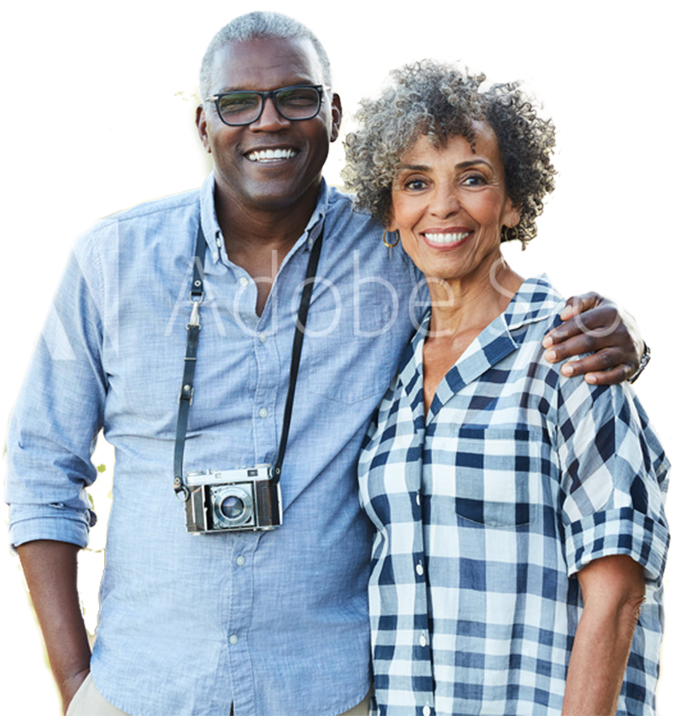
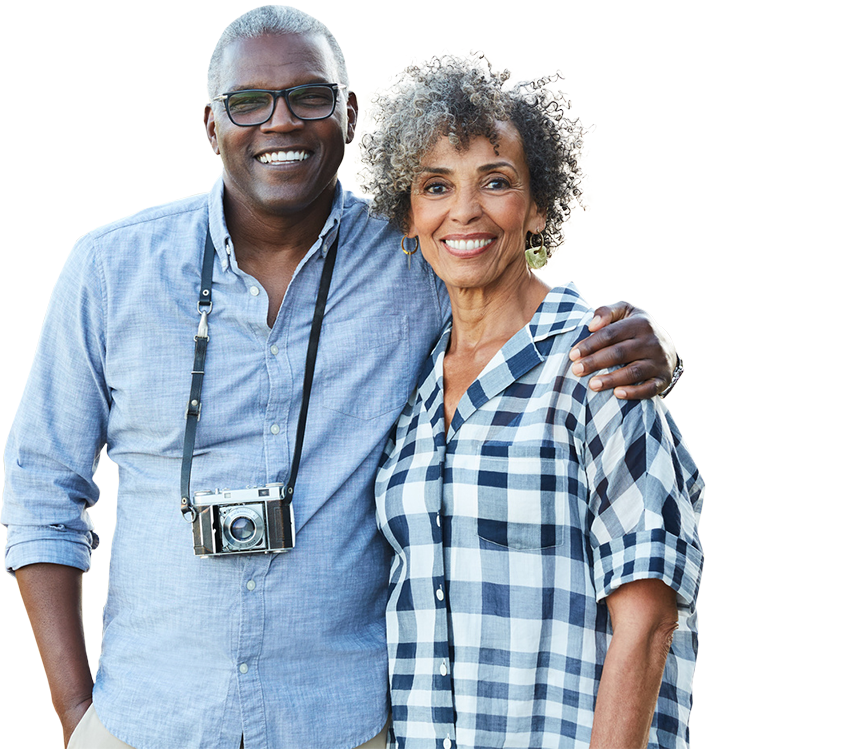
QA Fixes | Smarter Living Parent -- Hero Header Module (#160)
* Changed assets to match zeplin on Smarter Living hero

* Made changes to video module on Smarter products header

* Finished implementing feedback for Smarter Living Header

* Fixed issue where header was breaking the page and causing scroll

diff --git a/assets/styles/component-styles/hero-header.scss b/assets/styles/component-styles/hero-header.scss
@@ -189,10 +189,16 @@
   @media #{$tablet-only} {
     margin-bottom: 23.18vw;
   }
-
+  @media #{$tablet-lnd-only} {
+    padding-top: 30px;
+  }
   @media #{$portrait} {
-    padding: 100px 0 0;
+    padding: 50px 0 0;
     margin-bottom: 28.125vw;
+    background-position: center -270px;
+  }
+  @media #{$phone-only} {
+    background-position: center -120px;
   }
 
   .zuc-hero-row {
@@ -223,19 +229,28 @@
 
   .zuc-hero-left {
     width: 40%;
-    padding: 0 2.2vw;
+    padding: 0 4.2vw;
     position: relative;
 
+    @media #{$laptop-only} {
+      padding: 0 2.2vw;
+    }
+    @media #{$tablet-lnd-only} {
+      width: 60%;
+    }
     @media #{$portrait} {
       width: 100%;
-      padding: 5vw;
-      text-align: center;
+      padding: 7vw;
 
       h5,
       p {
         text-align: left;
       }
     }
+  }
+
+  .zuc-btn {
+    margin-top: 3.12vw;
   }
 
   img {
@@ -249,7 +264,18 @@
   .--img-position {
     position: relative;
     bottom: -5vw;
+    right: -5vw;
     z-index: -1;
+
+    @media #{$tablet-lnd-only} {
+      right: 0;
+    }
+    @media #{$portrait} {
+      display: block;
+      bottom: -9vw;
+      width: 80%;
+      margin: 0 auto;
+    }
   }
 
   .zuc-secondary-link {
@@ -303,6 +329,7 @@
   margin-top: 3.125vw;
   z-index: 2;
   position: relative;
+  margin-bottom: 2vw;
 
   @media #{$portrait} {
     margin-top: 0;
@@ -320,7 +347,7 @@
 
     @media #{$portrait} {
       width: 100%;
-      padding: 5vw;
+      padding: 7vw;
       text-align: left;
     }
 
@@ -329,7 +356,8 @@
       flex-wrap: wrap;
 
       p {
-        width: 50%;
+        width: 46%;
+        margin-left: 20px;
       }
     }
   }
@@ -352,7 +380,7 @@
   .--wave-position {
     position: absolute;
     right: 0;
-    top: 3vw;
+    top: 3.01vw;
     width: 200px;
     transform: translate3d(50%, 0, 0);
 
@@ -365,13 +393,18 @@
       margin: 5px 0 15px;
       width: 140px;
     }
-
+    @media #{$laptop-only} {
+      width: 160px;
+    }
     @media #{$tablet-prt-only} {
       display: block;
     }
-
     @media #{$tablet-lnd-only} {
       width: 150px;
+    }
+    @media #{$phone-only} {
+      display: block;
+      width: 120px;
     }
   }
 }
@@ -402,6 +435,9 @@
 
     @media #{$portrait} {
       width: 40%;
+    }
+    @media #{$phone-only} {
+      width: 20%;
     }
   }
 

diff --git a/assets/styles/typography.scss b/assets/styles/typography.scss
@@ -30,17 +30,17 @@ h6,.h6, {
 // Responsive Font Size Maps
 $p-font-sizes: (
   //- Tweaked for ZUC - A.
-  null  : 3.3vw,
-  $tablet-up  : 2.34vw,
+  null  : 4.3vw,
+  $tablet-up  : 2.50vw,
   $tablet-lnd-only : 1.5vw,
   $laptop-up : 1.2vw,
-  $desktop-up : .9375vw,
+  $desktop-only : .9375vw,
   $xl-up : 1vw
 );
 
 $h1-font-sizes: (
   //- Tweaked for ZUC - A.
-  null  : 9.07vw,
+  null  : 11.07vw,
   $tablet-up : 7.8vw,
   $tablet-lnd-only : 5.9vw,
   $laptop-up : 3.89vw,
@@ -73,7 +73,7 @@ $h4-font-sizes: (
 );
 
 $h5-font-sizes: (
-  null  : 7vw,
+  null  : 9.7vw,
   $tablet-only : 8vw,
   $tablet-lnd-only : 5vw,
   $laptop-up : 4.6vw,
@@ -117,7 +117,7 @@ $link-font-sizes: (
 
 p {
   line-height: 1.44;
-  font-weight: 400;
+  font-weight: 100;
   @include font-size($p-font-sizes);
 
   @media #{$phone-only} {
